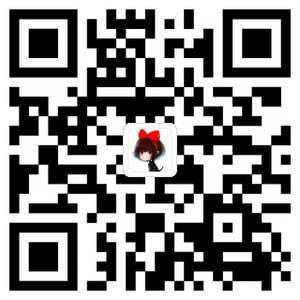
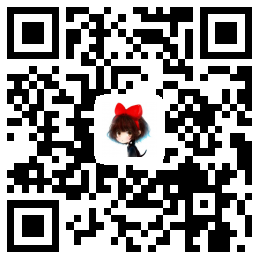
更新链接

diff --git a/README.md b/README.md
@@ -37,11 +37,11 @@ npm run dev
 #另，项目打包[此处只打包了前端的代码，后台并没有一起被打包]
 npm run build 
 ```
-**额额额，服务器到期了，线上预览的效果没有了，想要看效果的请按照上述步骤在本地运行查看。**
+
 
 ## 效果演示
 
-线上效果请[戳这里](https://imitateone-ailidan.rhcloud.com/#/);(请在chrome下调成手机模式预览)
+线上效果请[戳这里](http://ddan.applinzi.com/one#/);(请在chrome下调成手机模式预览)
 
 
 ##### 移动端扫描下方二维码
